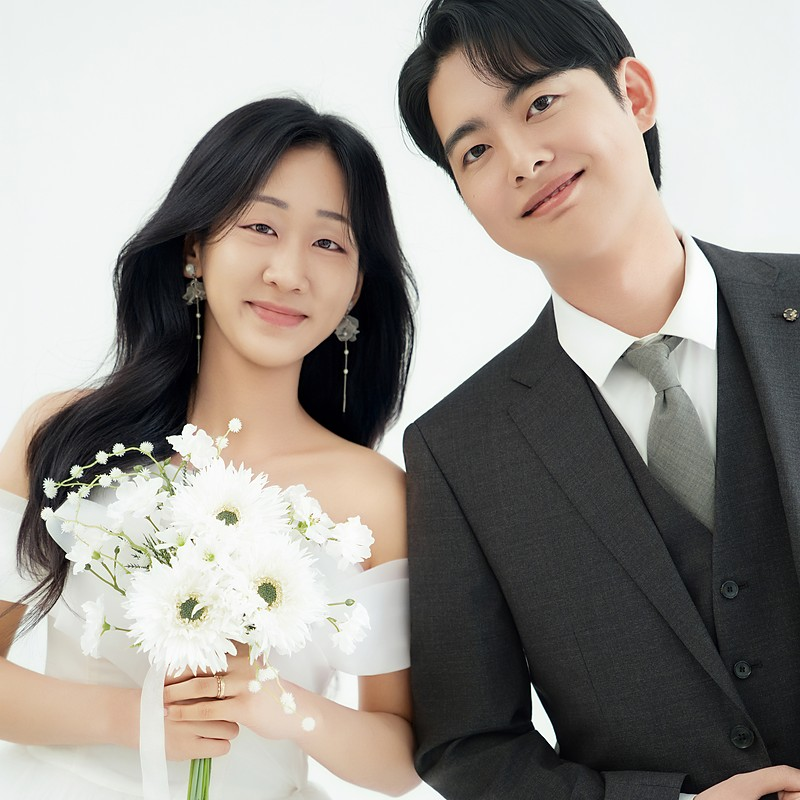
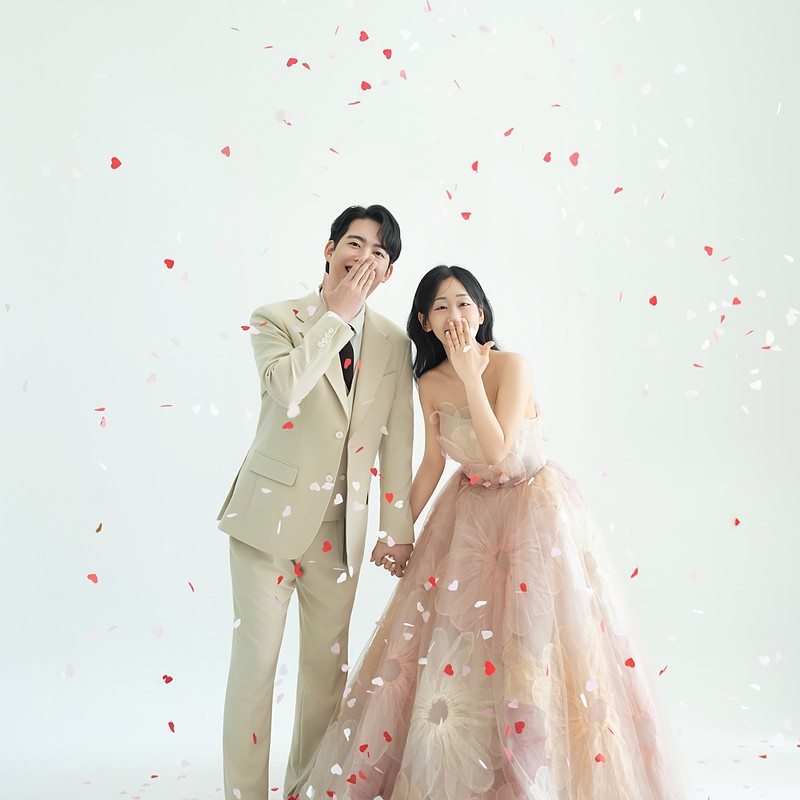
feat: 19번 사진을 커버 첫 장 및 링크 미리보기 이미지로 지정
- 갤러리/커버 슬라이드쇼 첫 장을 g19로 이동
- share-thumb.jpg를 19번 원본에서 재생성 (800x800, 69KB)

diff --git a/assets/js/config.js b/assets/js/config.js
@@ -110,15 +110,15 @@
     fadeMs: 1200        // 교차 전환 시간
   },
   gallery: [
-    { src: "assets/images/gallery/g10.webp", thumb: "assets/images/gallery/g10-thumb.webp", hero: "assets/images/gallery/g10-hero.webp", alt: "웨딩 사진 1" },
-    { src: "assets/images/gallery/g12.webp", thumb: "assets/images/gallery/g12-thumb.webp", hero: "assets/images/gallery/g12-hero.webp", alt: "웨딩 사진 2" },
-    { src: "assets/images/gallery/g13.webp", thumb: "assets/images/gallery/g13-thumb.webp", hero: "assets/images/gallery/g13-hero.webp", alt: "웨딩 사진 3" },
-    { src: "assets/images/gallery/g14.webp", thumb: "assets/images/gallery/g14-thumb.webp", hero: "assets/images/gallery/g14-hero.webp", alt: "웨딩 사진 4" },
-    { src: "assets/images/gallery/g15.webp", thumb: "assets/images/gallery/g15-thumb.webp", hero: "assets/images/gallery/g15-hero.webp", alt: "웨딩 사진 5" },
-    { src: "assets/images/gallery/g16.webp", thumb: "assets/images/gallery/g16-thumb.webp", hero: "assets/images/gallery/g16-hero.webp", alt: "웨딩 사진 6" },
-    { src: "assets/images/gallery/g17.webp", thumb: "assets/images/gallery/g17-thumb.webp", hero: "assets/images/gallery/g17-hero.webp", alt: "웨딩 사진 7" },
-    { src: "assets/images/gallery/g18.webp", thumb: "assets/images/gallery/g18-thumb.webp", hero: "assets/images/gallery/g18-hero.webp", alt: "웨딩 사진 8" },
-    { src: "assets/images/gallery/g19.webp", thumb: "assets/images/gallery/g19-thumb.webp", hero: "assets/images/gallery/g19-hero.webp", alt: "웨딩 사진 9" },
+    { src: "assets/images/gallery/g19.webp", thumb: "assets/images/gallery/g19-thumb.webp", hero: "assets/images/gallery/g19-hero.webp", alt: "웨딩 사진 1" },
+    { src: "assets/images/gallery/g10.webp", thumb: "assets/images/gallery/g10-thumb.webp", hero: "assets/images/gallery/g10-hero.webp", alt: "웨딩 사진 2" },
+    { src: "assets/images/gallery/g12.webp", thumb: "assets/images/gallery/g12-thumb.webp", hero: "assets/images/gallery/g12-hero.webp", alt: "웨딩 사진 3" },
+    { src: "assets/images/gallery/g13.webp", thumb: "assets/images/gallery/g13-thumb.webp", hero: "assets/images/gallery/g13-hero.webp", alt: "웨딩 사진 4" },
+    { src: "assets/images/gallery/g14.webp", thumb: "assets/images/gallery/g14-thumb.webp", hero: "assets/images/gallery/g14-hero.webp", alt: "웨딩 사진 5" },
+    { src: "assets/images/gallery/g15.webp", thumb: "assets/images/gallery/g15-thumb.webp", hero: "assets/images/gallery/g15-hero.webp", alt: "웨딩 사진 6" },
+    { src: "assets/images/gallery/g16.webp", thumb: "assets/images/gallery/g16-thumb.webp", hero: "assets/images/gallery/g16-hero.webp", alt: "웨딩 사진 7" },
+    { src: "assets/images/gallery/g17.webp", thumb: "assets/images/gallery/g17-thumb.webp", hero: "assets/images/gallery/g17-hero.webp", alt: "웨딩 사진 8" },
+    { src: "assets/images/gallery/g18.webp", thumb: "assets/images/gallery/g18-thumb.webp", hero: "assets/images/gallery/g18-hero.webp", alt: "웨딩 사진 9" },
     { src: "assets/images/gallery/g20.webp", thumb: "assets/images/gallery/g20-thumb.webp", hero: "assets/images/gallery/g20-hero.webp", alt: "웨딩 사진 10" },
     { src: "assets/images/gallery/g21.webp", thumb: "assets/images/gallery/g21-thumb.webp", hero: "assets/images/gallery/g21-hero.webp", alt: "웨딩 사진 11" },
     { src: "assets/images/gallery/g22.webp", thumb: "assets/images/gallery/g22-thumb.webp", hero: "assets/images/gallery/g22-hero.webp", alt: "웨딩 사진 12" },

diff --git a/index.html b/index.html
@@ -23,7 +23,7 @@
   <link rel="preconnect" href="https://fonts.googleapis.com">
   <link rel="preconnect" href="https://fonts.gstatic.com" crossorigin>
   <link href="https://fonts.googleapis.com/css2?family=Cormorant+Garamond:wght@400;500;600&family=Noto+Sans+KR:wght@300;400;500;700&display=swap" rel="stylesheet">
-  <link rel="stylesheet" href="assets/css/styles.css?v=20260825-22">
+  <link rel="stylesheet" href="assets/css/styles.css?v=20260825-23">
 </head>
 <body>
   <div class="ambient" aria-hidden="true"></div>
@@ -35,8 +35,8 @@
            hero.images 첫 항목을 바꾸면 이 경로도 함께 바꿀 것. -->
       <div class="hero-media" aria-hidden="true">
         <div id="heroLayerA" class="hero-layer is-active">
-          <img class="hero-blur" src="assets/images/gallery/g10-hero.webp" alt="">
-          <img class="hero-photo" src="assets/images/gallery/g10-hero.webp" alt="">
+          <img class="hero-blur" src="assets/images/gallery/g19-hero.webp" alt="">
+          <img class="hero-photo" src="assets/images/gallery/g19-hero.webp" alt="">
         </div>
         <div id="heroLayerB" class="hero-layer">
           <img class="hero-blur" alt="">
@@ -122,7 +122,7 @@
     <p id="dialogCaption" class="dialog-caption"></p>
   </dialog>
 
-  <script src="assets/js/config.js?v=20260825-22"></script>
-  <script src="assets/js/app.js?v=20260825-22"></script>
+  <script src="assets/js/config.js?v=20260825-23"></script>
+  <script src="assets/js/app.js?v=20260825-23"></script>
 </body>
 </html>
